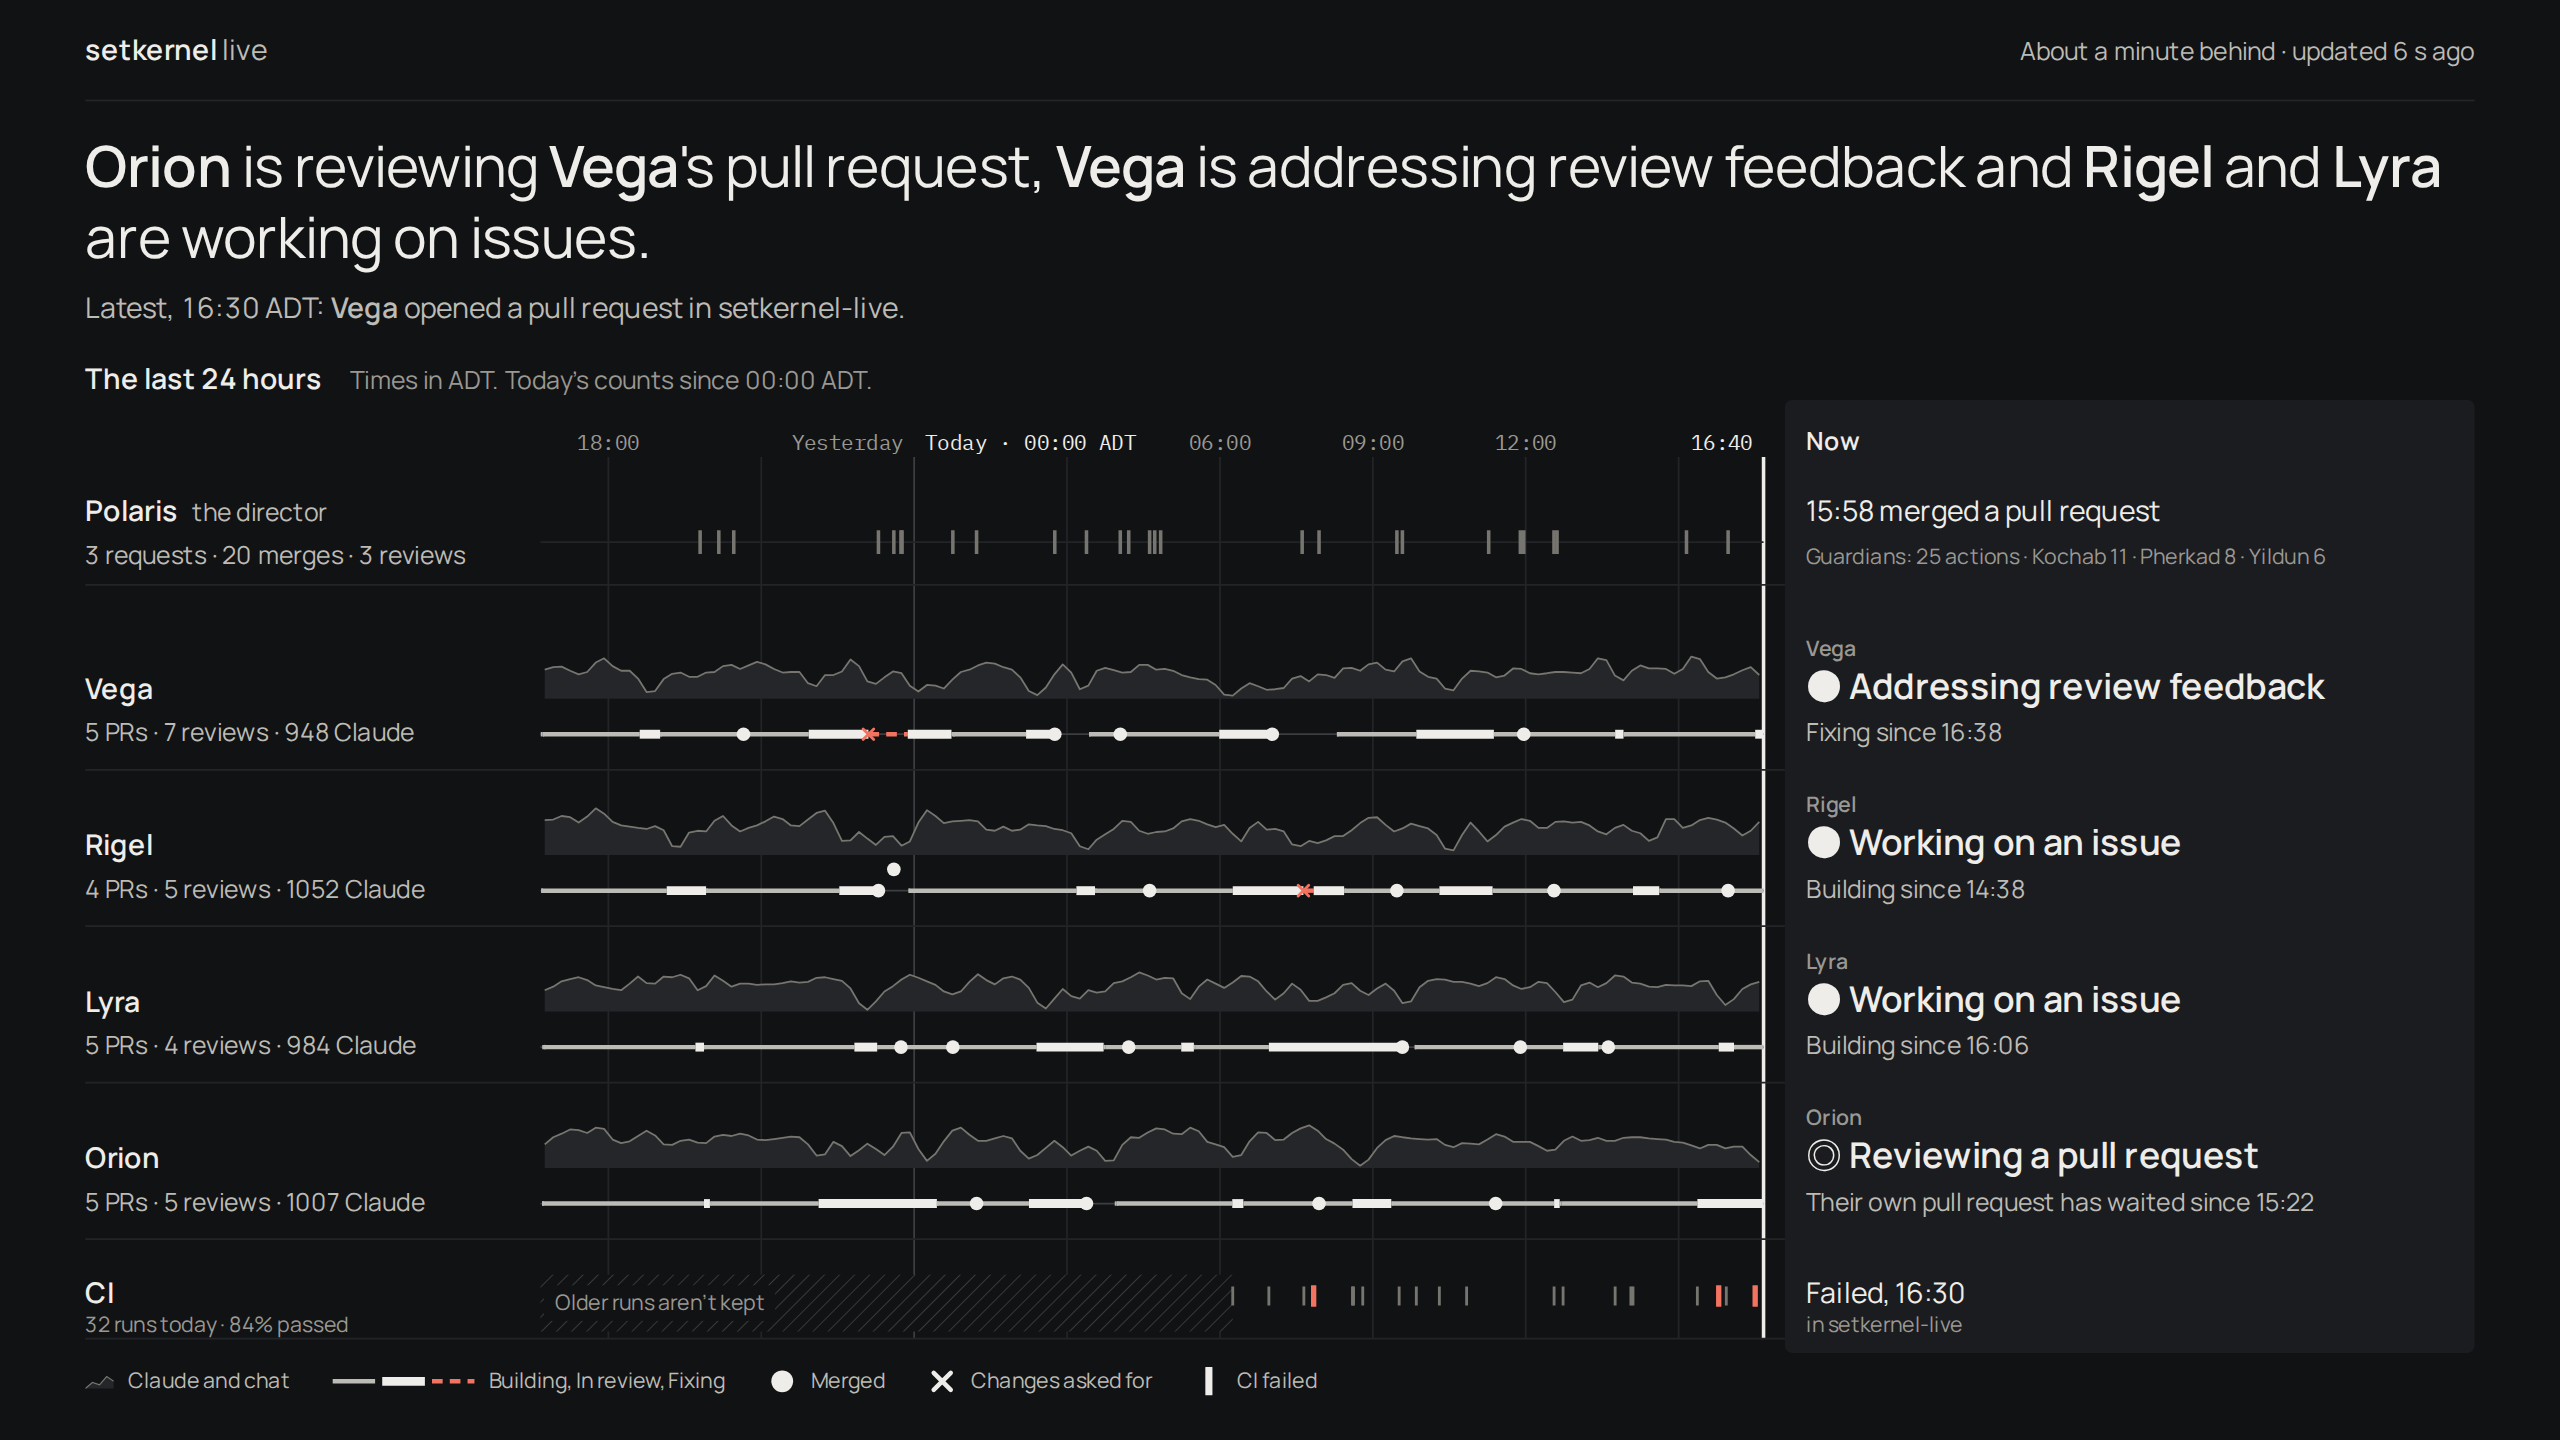
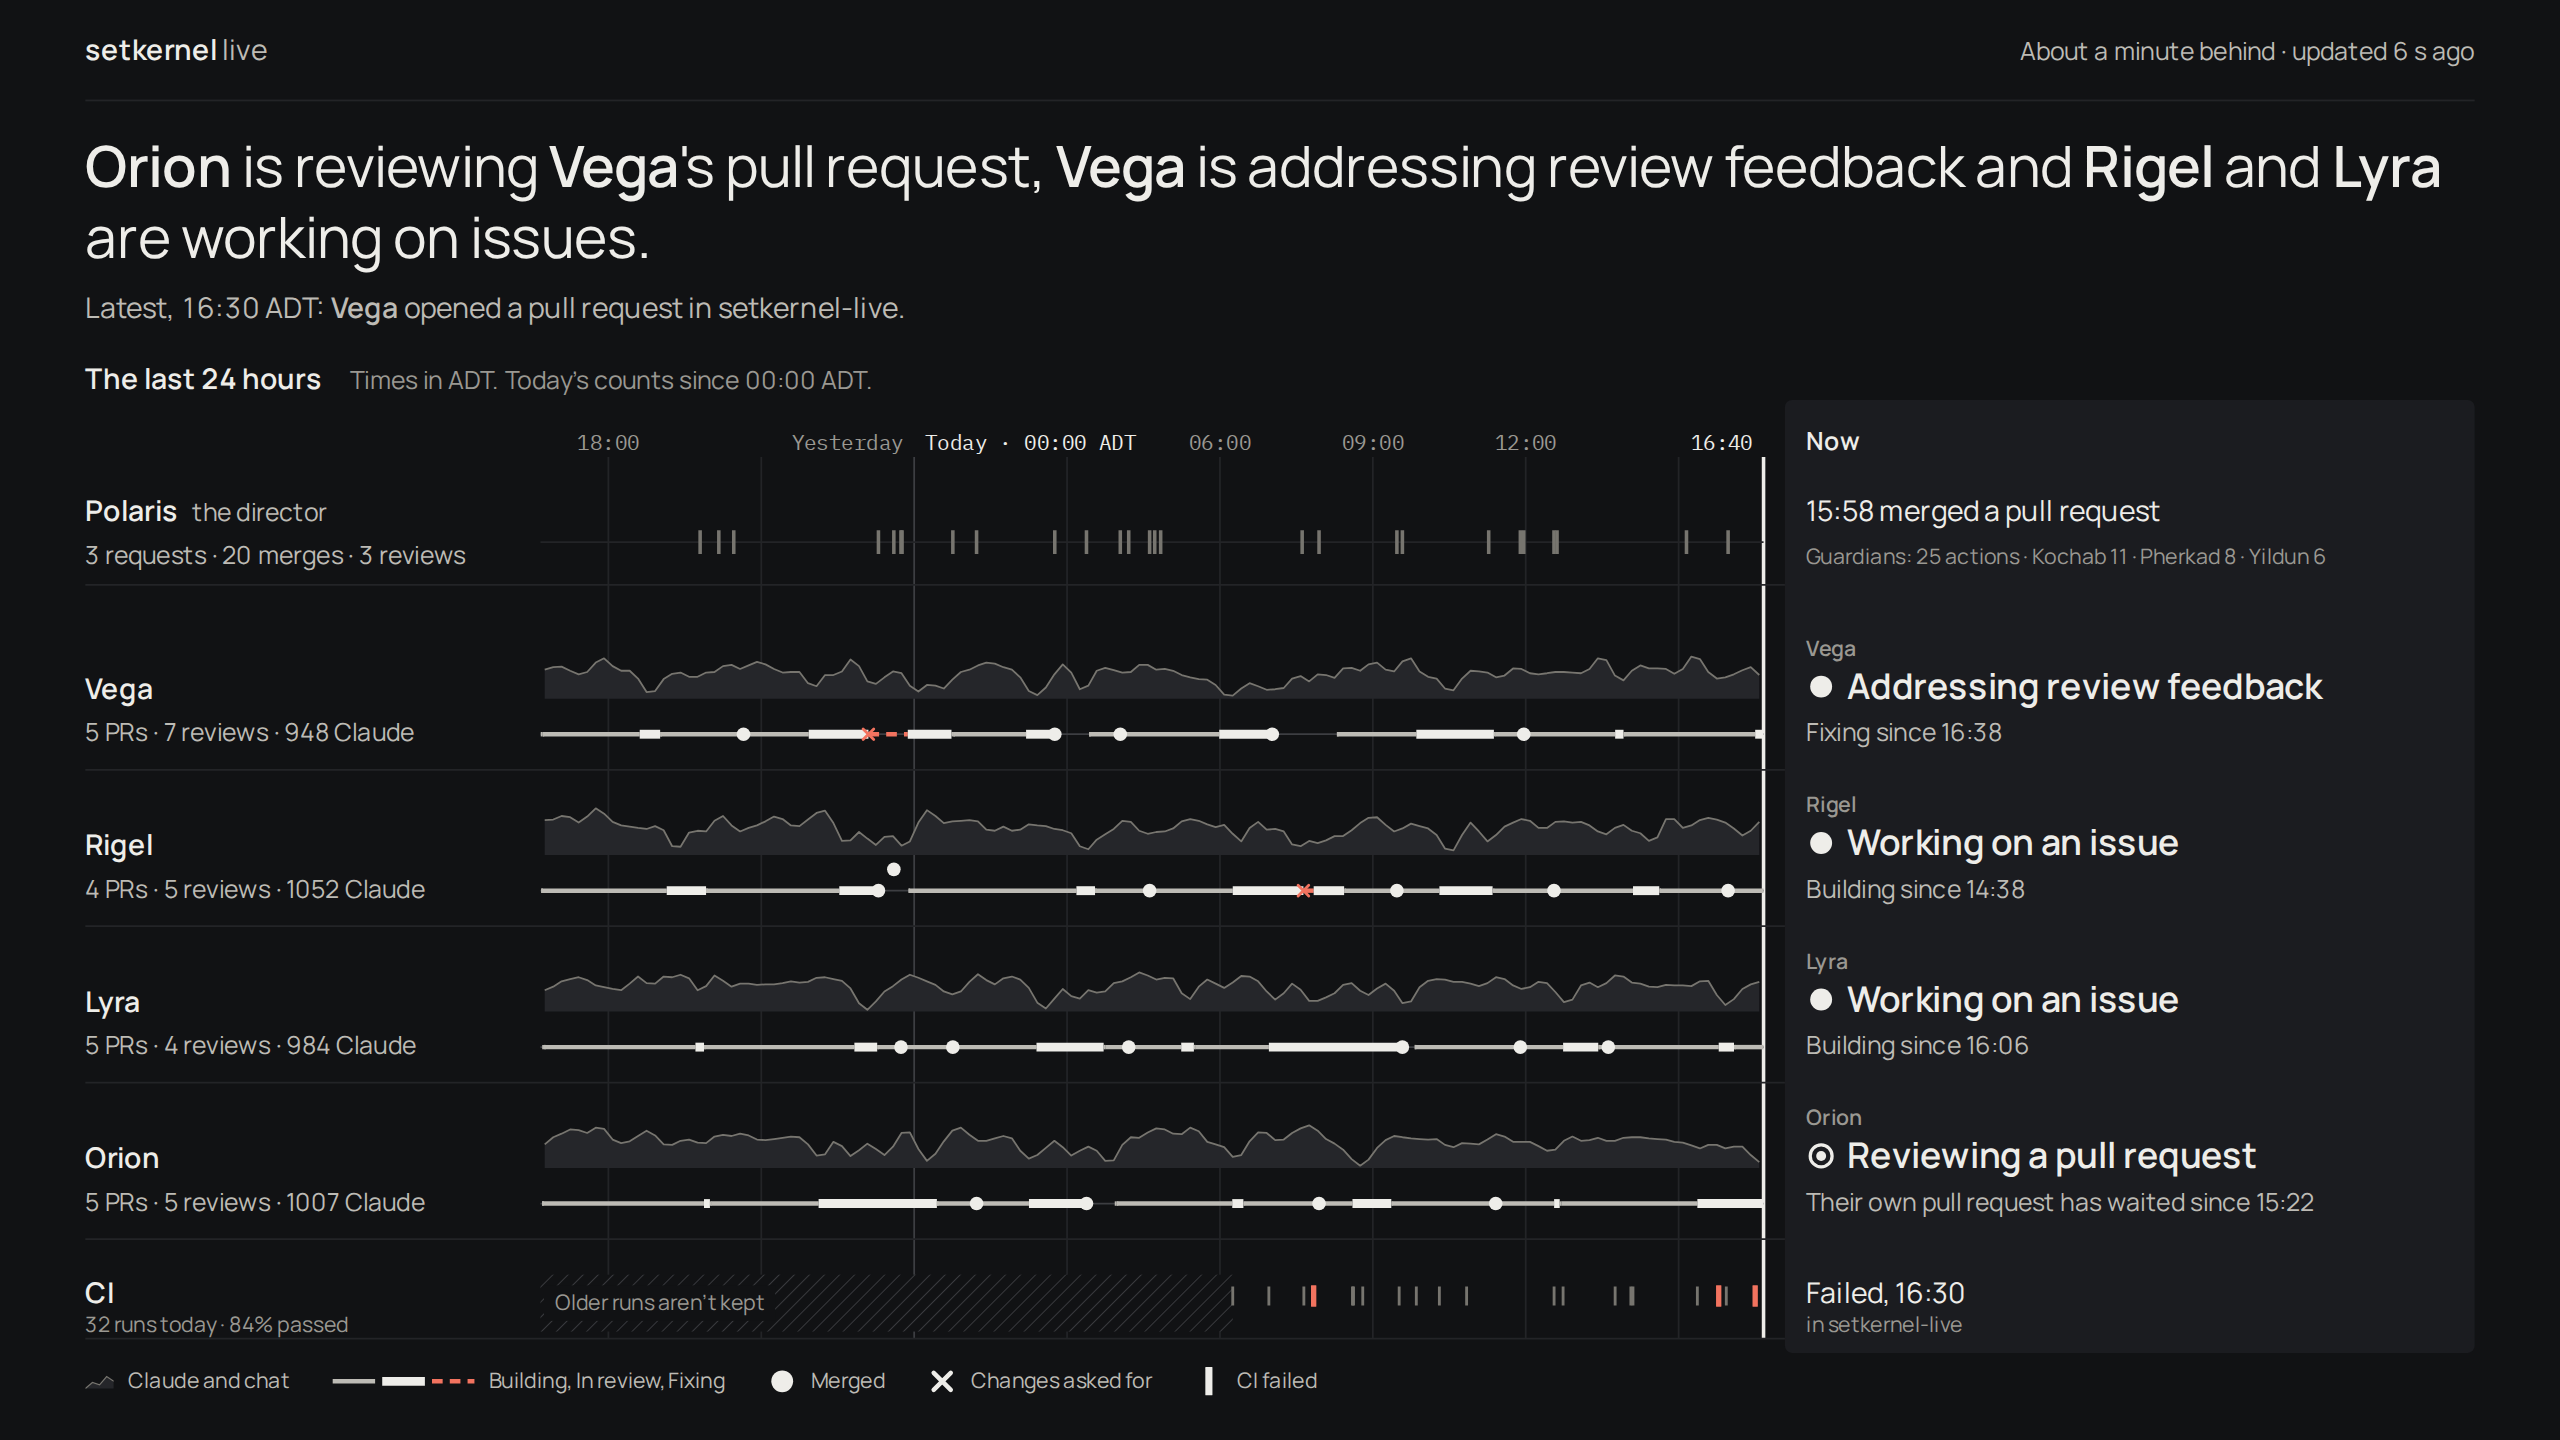
docs: draw the Live v3 Day state marks as shapes, not fallback-font glyphs
The Now column's ● ◎ came from a system font, because the embedded Manrope
is a Latin subset. Draw each state as an SVG symbol sized to the text, dim
it with the text when offline, and re-shoot the shots that show it. The
README drops its "still to change" note and explains why Rigel's second
merge before midnight sits above the line (two merges 18 minutes apart).

Refs setkernel/setkernel-live#45

diff --git a/docs/design/v3/day/index.html b/docs/design/v3/day/index.html
@@ -129,6 +129,8 @@ html.narrow .keys { display: none; }
 .now .who { font-weight: 600; font-size: var(--f2); color: var(--ink-3); }
 .now .who.sub { padding-left: var(--s2); }
 .now .l1 { font-weight: 600; font-size: var(--f4); line-height: var(--l3); }
+.now .l1 .st { width: 0.84em; height: 0.84em; margin-right: 0.3em; vertical-align: -0.04em; color: var(--ink); }
+.mood-offline .st, .mood-offline .now .l1 .st { color: var(--ink-2); }
 .now .l1.idle { font-weight: 400; color: var(--ink-3); }
 .now .l2 { color: var(--ink-2); grid-column: 2; }
 .now .when { font: var(--f1) var(--mono); color: var(--ink-3); border: 0; padding: 0 0 var(--s1); display: block; }
@@ -178,6 +180,11 @@ html.narrow .keys { display: none; }
     <symbol id="m-requested_changes" viewBox="-6 -6 12 12"><path d="M-3.6-3.6L3.6 3.6M3.6-3.6L-3.6 3.6" fill="none" stroke="currentColor" stroke-width="1.9" stroke-linecap="round"/></symbol>
     <symbol id="m-ci-fail" viewBox="-6 -6 12 12"><path d="M0-5.5V5.5" stroke="currentColor" stroke-width="3" stroke-linecap="round"/></symbol>
     <symbol id="m-tick" viewBox="-6 -6 12 12"><path d="M0-4V4" stroke="currentColor" stroke-width="1.2"/></symbol>
+    <!-- the state beside a lane's Now line, drawn so it doesn't fall back to a system font for ● and ◎ -->
+    <symbol id="s-WORKING" viewBox="-6 -6 12 12"><circle r="4.4" fill="currentColor"/></symbol>
+    <symbol id="s-REVIEW" viewBox="-6 -6 12 12"><circle r="4.4" fill="none" stroke="currentColor" stroke-width="1.3"/><circle r="2" fill="currentColor"/></symbol>
+    <symbol id="s-DISCUSS" viewBox="-6 -6 12 12"><circle cx="-3.6" r="1.3" fill="currentColor"/><circle r="1.3" fill="currentColor"/><circle cx="3.6" r="1.3" fill="currentColor"/></symbol>
+    <symbol id="s-PAUSED" viewBox="-6 -6 12 12"><path d="M-1.8-4V4M1.8-4V4" stroke="currentColor" stroke-width="1.6"/></symbol>
     <pattern id="hatch" width="6" height="6" patternUnits="userSpaceOnUse" patternTransform="rotate(45)"><rect width="6" height="6" style="fill:var(--bg)"/><path d="M0 0V6" style="stroke:var(--rule-2)" stroke-width="1"/></pattern>
   </defs>
 </svg>
@@ -824,8 +831,9 @@ function moment(d, row, i) {
     const theirs = { started: "Their own issue started at", building: "Their own issue started at", review: "Their own pull request has waited since", fixing: "Changes asked on their own pull request at" };
     const own = !col ? "" : col === "merged" ? `Merged ${since < d.mid ? "yesterday " : ""}at ${when(since)}` : !live && col !== "review" ? "" : !live ? `Waiting for review since ${when(since)}` : info.state === "REVIEW" ? `${theirs[col]} ${when(col === "building" ? lane.at : since)}` : `${STAGE_NAME[col]} since ${when(since)}`;
     const where = live && info.repo && info.state !== "REVIEW" ? info.repo : "";
-    const out = [live ? `${stateWords(info).glyph} ${capital(doing(info).replace(` in ${info.repo}`, ""))}` : capital(doing(info)), [where, own].filter(Boolean).join(" · ")];
+    const out = [live ? capital(doing(info).replace(` in ${info.repo}`, "")) : capital(doing(info)), [where, own].filter(Boolean).join(" · ")];
     out.idle = !live;
+    out.state = live ? info.state : null; // drawn as a shape before the words (stateWords' glyph is outside the embedded fonts)
     return out;
   }
   const st = stageAt(d, row.id, binTime(i) + BIN - 1);
@@ -1003,13 +1011,21 @@ function drawH(d) {
     text(mom, mx, lab, title, i != null ? "t-axis-strong" : "t-now-h");
     const room = S.gutR - S.gap; // the column's width, less the gap that closes it
     // the headline of a lane: big, and smaller only when a scrubbed line wouldn't fit
-    const big = (g, yy, s, idle) => { const t = text(g, mx, yy, s, `t-now-do${idle ? " idle" : ""}`); if (t.getComputedTextLength() > room) t.setAttribute("class", `t-now-do small${idle ? " idle" : ""}`); return fit(t, room); };
+    // a live lane's state goes before it as a shape, sized and centred on the text's own size
+    const big = (g, yy, s, idle, state) => {
+      const t = text(g, mx, yy, s, `t-now-do${idle ? " idle" : ""}`);
+      const shift = () => { const f = parseFloat(getComputedStyle(t).fontSize); return state && s ? f * 1.15 : 0; };
+      if (t.getComputedTextLength() > room - shift()) t.setAttribute("class", `t-now-do small${idle ? " idle" : ""}`);
+      const f = parseFloat(getComputedStyle(t).fontSize), dx = shift();
+      if (dx) { t.setAttribute("x", mx + dx); const r = f * 0.42, gl = node("g", { class: "mark st" }, g); node("use", { href: `#s-${state}`, x: mx, y: yy - f * 0.34 - r, width: 2 * r, height: 2 * r }, gl); node("title", {}, gl).textContent = stateWords({ state }).state; }
+      return fit(t, room - dx);
+    };
     for (const r of rows) {
       if (r.kind === "sep") continue;
       const lines = moment(d, r, i);
       if (r.kind === "eng") {
         text(mom, mx, ys(r, 24), lines[0] ? r.id : "", "t-now-who");
-        big(mom, ys(r, 48), lines[0] ?? "", lines.idle);
+        big(mom, ys(r, 48), lines[0] ?? "", lines.idle, lines.state);
         fit(text(mom, mx, ys(r, 72), lines[1] ?? "", "t-now-detail"), room);
       } else if (r.kind === "pole") {
         fit(text(mom, mx, ys(r, 28), lines[0] ?? "", "t-now-pole"), room);
@@ -1145,6 +1161,11 @@ function drawNowList(d, i) {
     const a = document.createElement("span");
     a.className = r.kind === "eng" ? `l1${lines.idle ? " idle" : ""}` : "l2";
     a.textContent = lines[0] || (r.kind === "eng" ? "" : r.kind === "pole" ? poleTally(d.s.byAgent?.Polaris) : "");
+    if (lines.state && lines[0]) {
+      const g = node("svg", { class: "st", viewBox: "0 0 12 12", "aria-hidden": "true" });
+      node("use", { href: `#s-${lines.state}`, width: 12, height: 12 }, g);
+      a.prepend(g);
+    }
     li.append(who, a);
     if (r.kind !== "sep") {
       const extra = r.kind === "eng" || r.kind === "pole" ? lines[1] ?? "" : [lines[1], ciSummary(d.s.counts)].filter(Boolean).join(" · ");

diff --git a/docs/design/v3/day/README.md b/docs/design/v3/day/README.md
@@ -65,6 +65,12 @@ three glyphs remain (see "Marks" below). Colour is never the only signal:
   up an issue is where the Building line begins, for the same reason.
 - Everything else (approved, pushed fixes, requests, comments, design posts, decisions, the
   guardians) is words: in the Now column, the scrub readout, the hover title and the table.
+- Two marks that would overlap go on separate levels, so the second sits above the line at the
+  same time. On the busy day, Rigel's merges at 23:17 and 23:36 are 18 minutes apart, about 9 px
+  at 1440, so the second one is raised. Time stays exact; only the height moves.
+- The state before each lane's Now line (● working, ◎ reviewing, three dots for discussing,
+  two bars for paused) is drawn as an SVG shape, not text. The embedded fonts are Latin subsets
+  without these characters, so as text they came from whatever system font the screen had.
 
 **Type and spacing.** The type is Manrope, with IBM Plex Mono for clock times only; both are the
 repo's own OFL fonts from `public/fonts/` (Google Fonts, embedded). Two families stay because the
@@ -302,8 +308,9 @@ against them: one type scale and spacing grid, calmer lanes, a stronger Now, no 
 - Offline showed "Working on an issue" in full ink under "Last word, 15:53"; the column is
   dimmed now.
 - A scrubbed line that doesn't fit drops one type step (20 to 16) instead of being cut.
-- Still to change: Polaris's marks stack three deep around a burst, and the wall's state glyph
-  (●) comes from a fallback font.
+- Polaris's three-deep stacks and the wall's fallback-font state glyph were left from this
+  round; the second review's calmer Polaris row and the drawn state shapes (see "Marks") replace
+  both.
 
 **The first prototype's rounds:**
 **Round 1** (first shots):
